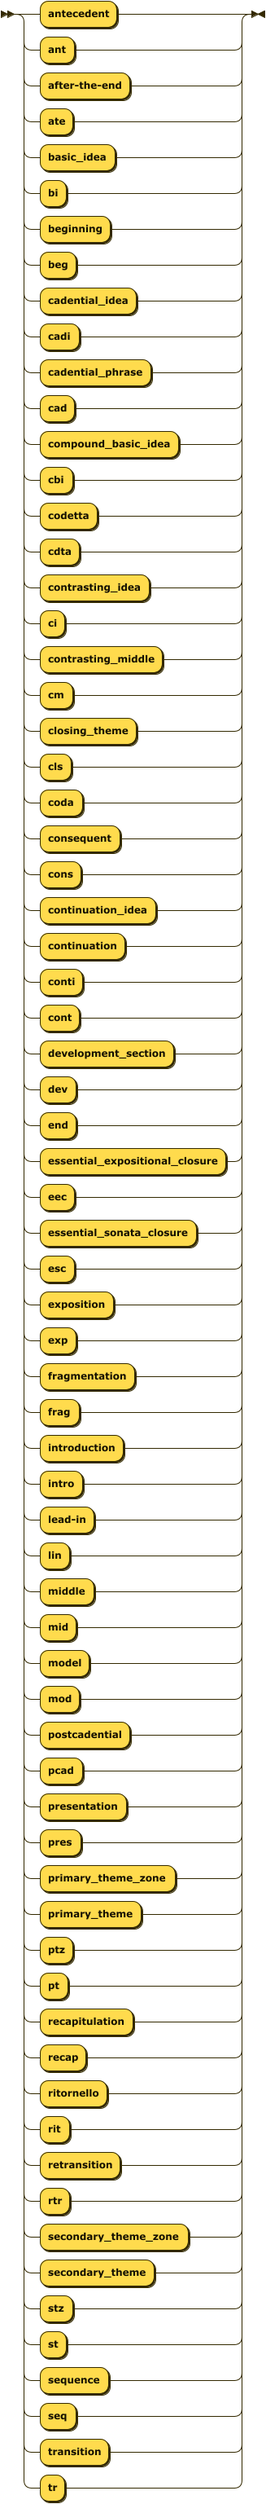
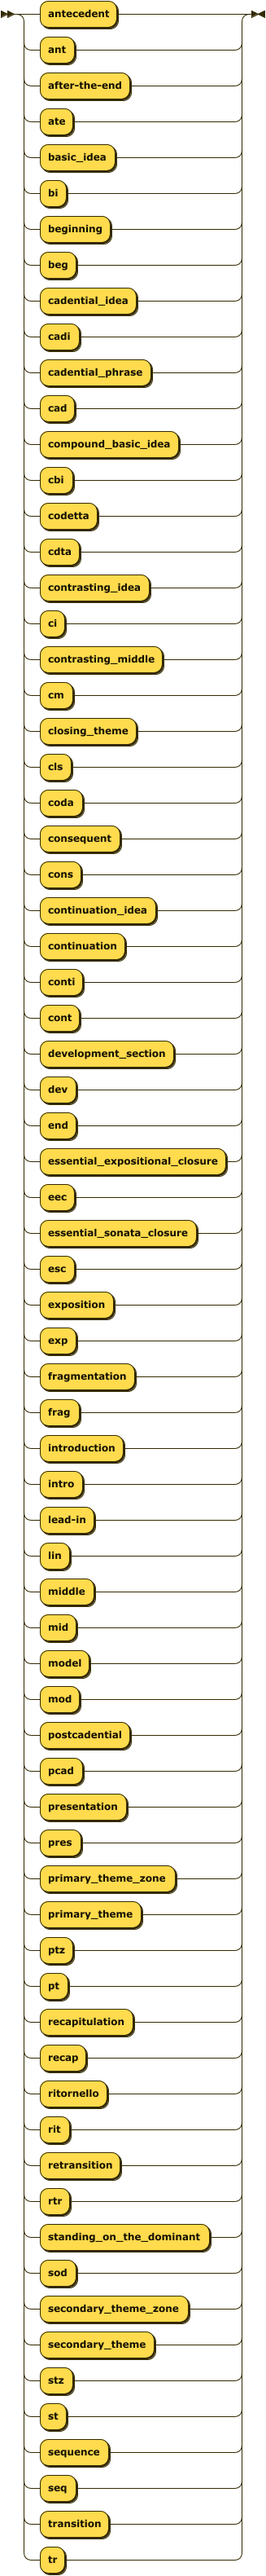
includes the SpecificFunction standing_on_the_dominant (sod)
1) edited lcma_standard.ebnf
2) python grammar/update_parser.py
3)  musicalform validate -d ~/annotation_pilot/TiLiA -o grammar/validation_report.csv

diff --git a/src/musicalform/cli/lcma_standardParser.py b/src/musicalform/cli/lcma_standardParser.py
@@ -254,7 +254,7 @@ class lcma_standardGrammar(Grammar):
         parser = lcma_standard()
         syntax_tree = parser(source_code)
     """
-    source_hash__ = "455171385cc35ca2cf4a609d91229c13"
+    source_hash__ = "e293098e82d7fc6e1d0797453612cfce"
     disposable__ = re.compile('$.')
     static_analysis_pending__ = []  # type: List[bool]
     parser_initialization__ = ["upon instantiation"]
@@ -277,7 +277,7 @@ class lcma_standardGrammar(Grammar):
     MaterialPositions = Alternative(TargetOnly, Series(MaterialRef, Text(','), MaterialRef), SourceOnly, MaterialRef)
     Unit = Alternative(Text('unit'), Text('x'), Text('part'), Text('section'), Text('sec'), Text('phrase'), Text('sub-phrase'), Text('idea'), Text('work'), Text('movement'), Text('mvt'), Text('piece'), Text('zone'), Text('theme'), Text('album'), Text('song'), Text('cycle'), Text('group'))
     FormalType = Alternative(Text('hybrid1'), Text('hyb1'), Text('hybrid2'), Text('hyb2'), Text('hybrid3'), Text('hyb3'), Text('hybrid4'), Text('hyb4'), Text('model_sequence'), Text('modseq'), Text('period'), Text('pd'), Series(Text('repeated'), Option(Text('_')), wsp__, Unit), Text('ritornello_form'), Text('ritornello'), Text('rondo_form'), Text('rondo'), Text('sentence'), Text('sent'), Text('sequence'), Text('seq'), Text('sonata_form'), Text('sonata'), Text('unary_form'), Text('unary'), Text('simple_binary.balanced'), Text('simple_binary'), Text('rounded_binary'), Text('ternary.through_composed'), Text('ternary.da_capo'), Text('ternary'))
-    SpecificFunction = Alternative(Text('antecedent'), Text('ant'), Text('after-the-end'), Text('ate'), Text('basic_idea'), Text('bi'), Text('beginning'), Text('beg'), Text('cadential_idea'), Text('cadi'), Text('cadential_phrase'), Text('cad'), Text('compound_basic_idea'), Text('cbi'), Text('codetta'), Text('cdta'), Text('contrasting_idea'), Text('ci'), Text('contrasting_middle'), Text('cm'), Text('closing_theme'), Text('cls'), Text('coda'), Text('consequent'), Text('cons'), Text('continuation_idea'), Text('continuation'), Text('conti'), Text('cont'), Text('development_section'), Text('dev'), Text('end'), Text('essential_expositional_closure'), Text('eec'), Text('essential_sonata_closure'), Text('esc'), Text('exposition'), Text('exp'), Text('fragmentation'), Text('frag'), Text('introduction'), Text('intro'), Text('lead-in'), Text('lin'), Text('middle'), Text('mid'), Text('model'), Text('mod'), Text('postcadential'), Text('pcad'), Text('presentation'), Text('pres'), Text('primary_theme_zone'), Text('primary_theme'), Text('ptz'), Text('pt'), Text('recapitulation'), Text('recap'), Text('ritornello'), Text('rit'), Text('retransition'), Text('rtr'), Text('secondary_theme_zone'), Text('secondary_theme'), Text('stz'), Text('st'), Text('sequence'), Text('seq'), Text('transition'), Text('tr'))
+    SpecificFunction = Alternative(Text('antecedent'), Text('ant'), Text('after-the-end'), Text('ate'), Text('basic_idea'), Text('bi'), Text('beginning'), Text('beg'), Text('cadential_idea'), Text('cadi'), Text('cadential_phrase'), Text('cad'), Text('compound_basic_idea'), Text('cbi'), Text('codetta'), Text('cdta'), Text('contrasting_idea'), Text('ci'), Text('contrasting_middle'), Text('cm'), Text('closing_theme'), Text('cls'), Text('coda'), Text('consequent'), Text('cons'), Text('continuation_idea'), Text('continuation'), Text('conti'), Text('cont'), Text('development_section'), Text('dev'), Text('end'), Text('essential_expositional_closure'), Text('eec'), Text('essential_sonata_closure'), Text('esc'), Text('exposition'), Text('exp'), Text('fragmentation'), Text('frag'), Text('introduction'), Text('intro'), Text('lead-in'), Text('lin'), Text('middle'), Text('mid'), Text('model'), Text('mod'), Text('postcadential'), Text('pcad'), Text('presentation'), Text('pres'), Text('primary_theme_zone'), Text('primary_theme'), Text('ptz'), Text('pt'), Text('recapitulation'), Text('recap'), Text('ritornello'), Text('rit'), Text('retransition'), Text('rtr'), Text('standing_on_the_dominant'), Text('sod'), Text('secondary_theme_zone'), Text('secondary_theme'), Text('stz'), Text('st'), Text('sequence'), Text('seq'), Text('transition'), Text('tr'))
     TypeExp = Alternative(Series(Text('"'), FormalType, Text('"')), FormalType)
     Cardinality = Alternative(Series(Alternative(Series(Text('1'), RegExp('[0-9]')), RegExp('[04-9]')), Text('th')), Series(RegExp('[2-9]'), Alternative(Text('1st'), Text('2nd'), Text('3rd'), Series(RegExp('[04-9]'), Text('th')))), Text('1st'), Text('2nd'), Text('3rd'))
     GenericFunction = Series(Option(Series(Cardinality, Option(Text("_")))), wsp__, Unit)

diff --git a/src/musicalform/enums.py b/src/musicalform/enums.py
@@ -154,6 +154,8 @@ class SpecificFunctionName(FancyStrEnum):
     st = secondary_theme
     sequence = auto()
     seq = sequence
+    standing_on_the_dominant = auto()
+    sod = standing_on_the_dominant
     transition = auto()
     tr = transition
 

diff --git a/grammar/index.md b/grammar/index.md
@@ -253,6 +253,8 @@ SpecificFunction
            | 'rit'
            | 'retransition'
            | 'rtr'
+           | 'standing_on_the_dominant'
+           | 'sod'
            | 'secondary_theme_zone'
            | 'secondary_theme'
            | 'stz'
